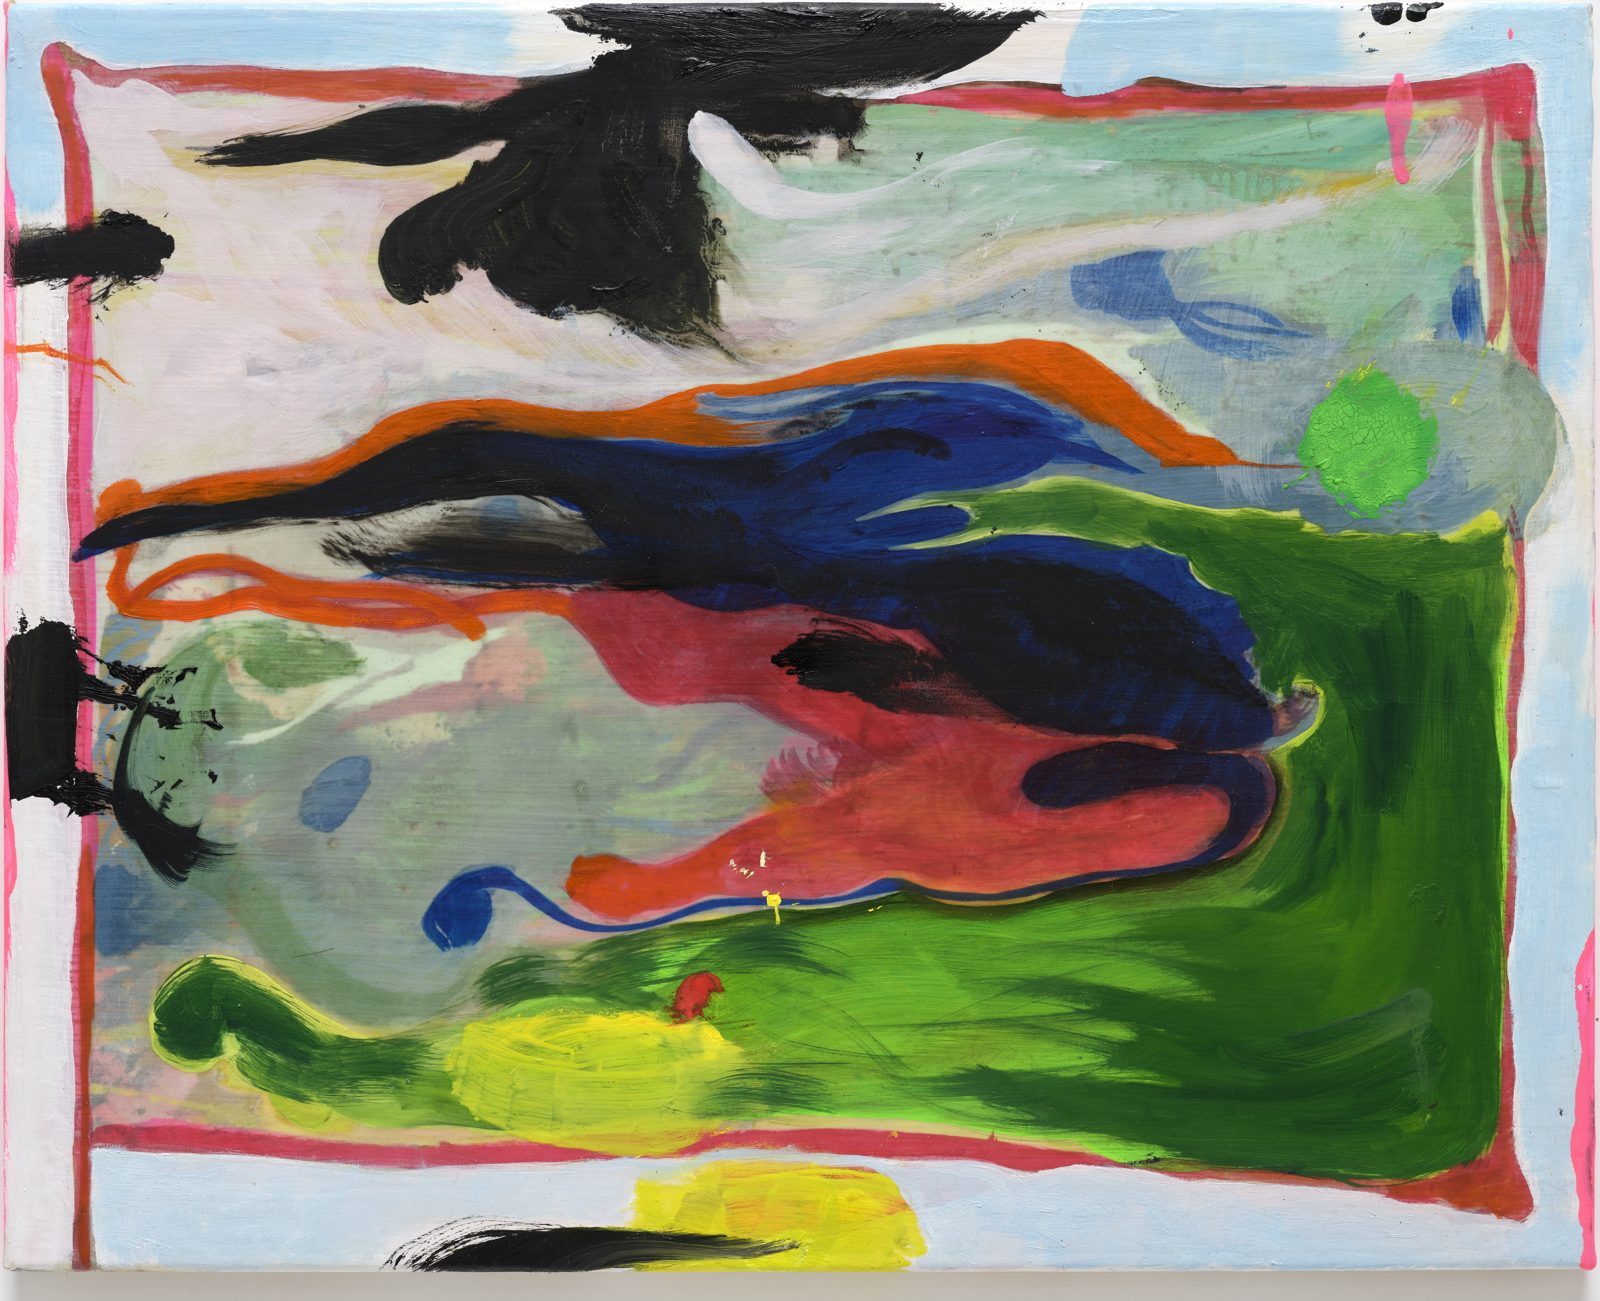
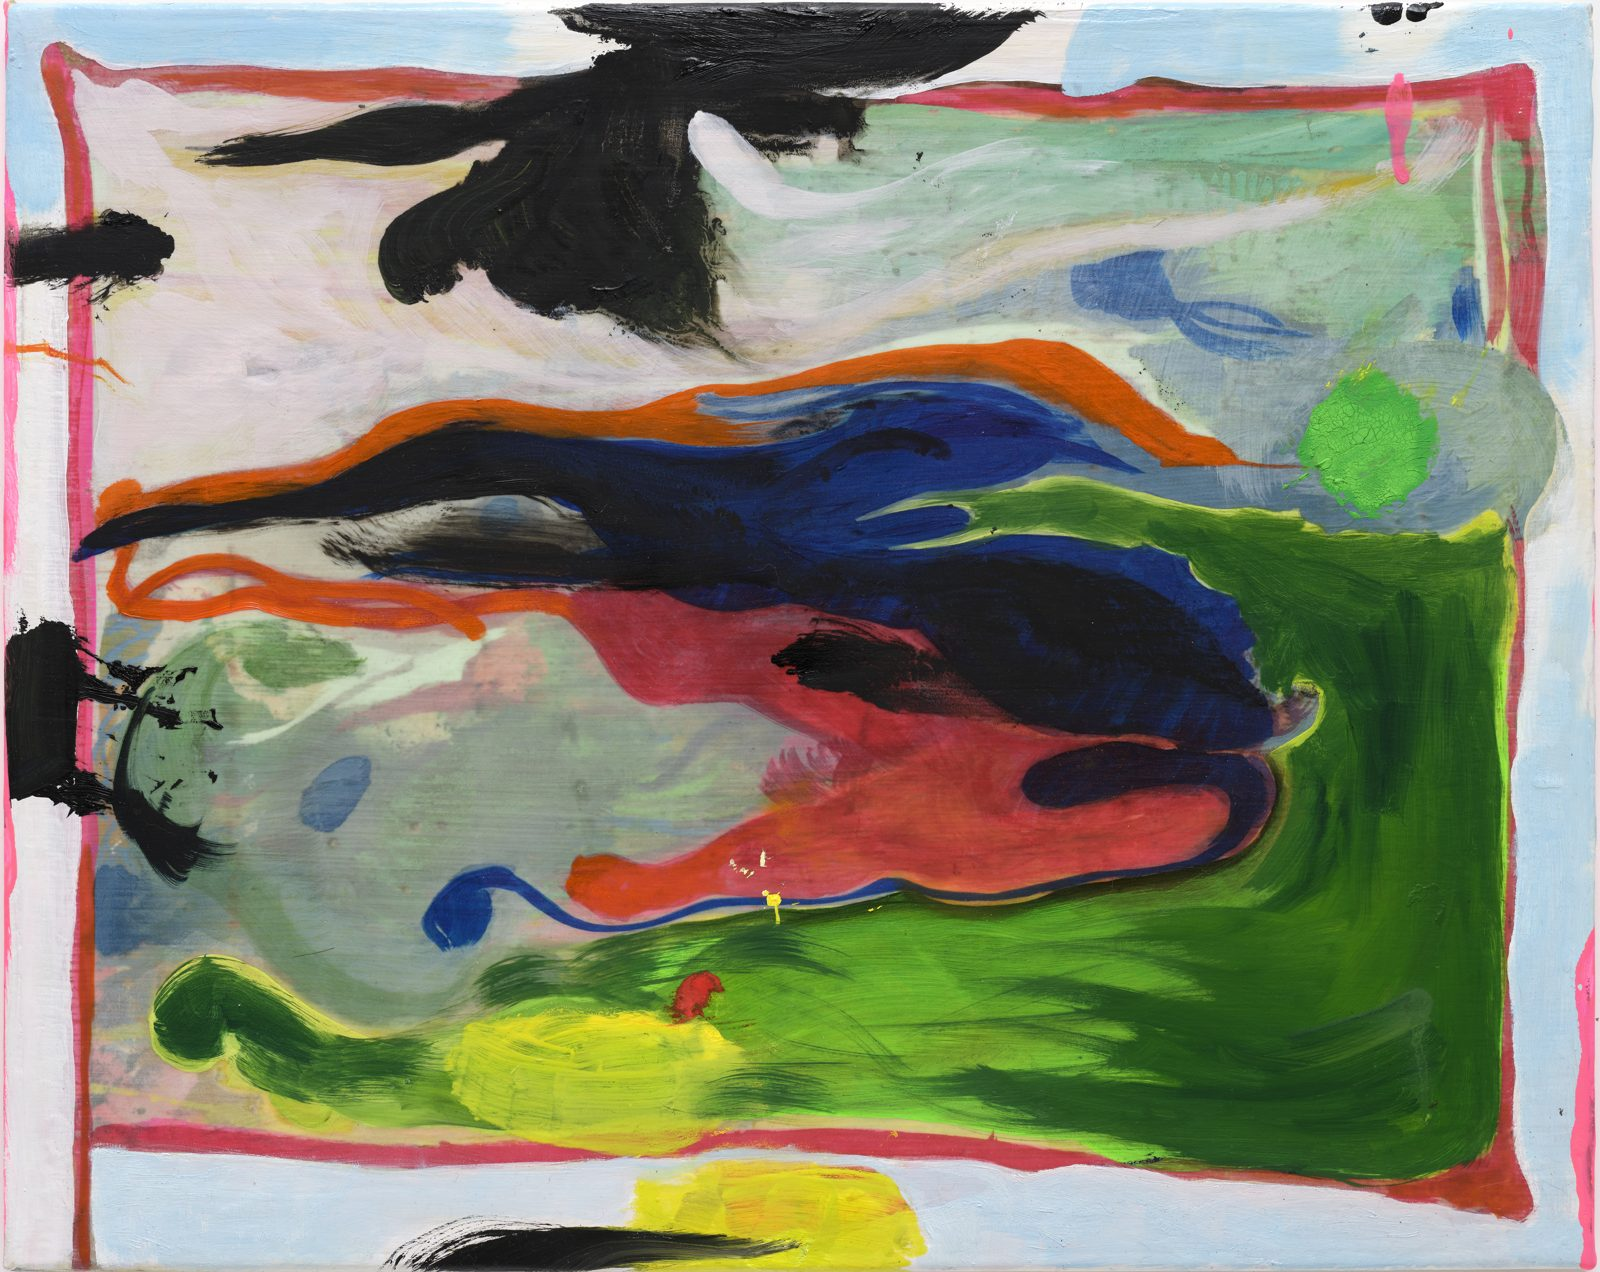
Trim drop shadow from bottom of Flag (atck)

diff --git a/scripts/import_art.py b/scripts/import_art.py
@@ -565,6 +565,7 @@ CROP_TO_ART = True
 # photo uncropped.
 ART_CROP_OVERRIDES: dict[str, tuple[int, int, int, int] | None] = {
     "2": None,  # superstar specials alt — detector cropped to a white sliver
+    "2026-03-23-atck-01": (488, 488, 9494, 7648),  # trim bottom drop shadow
 }
 
 
